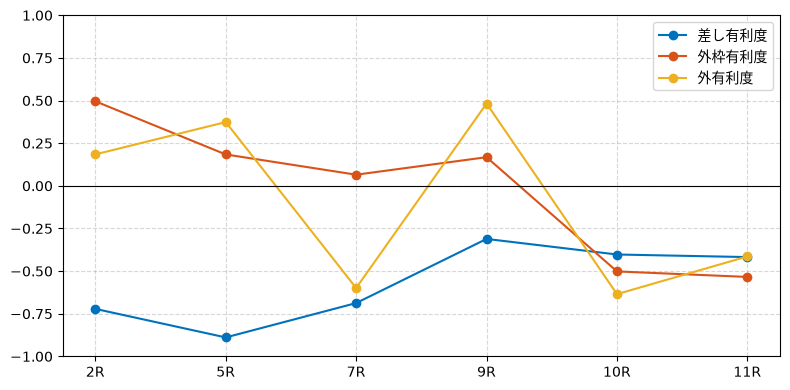
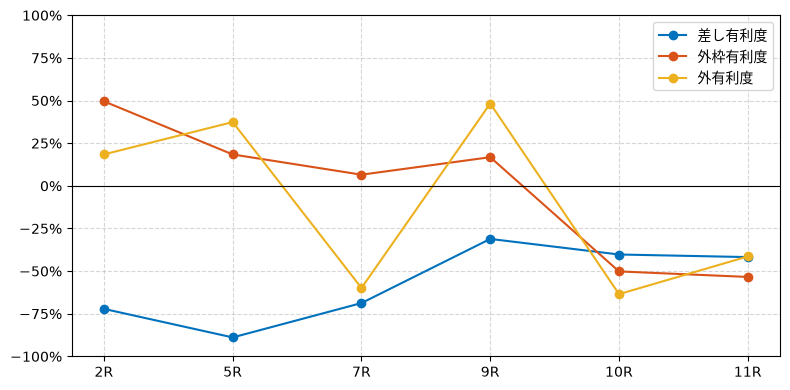
有利度を100倍して見やすく

diff --git a/public/2026/2026092706040911_スプリンターズS/前日の傾向.md b/public/2026/2026092706040911_スプリンターズS/前日の傾向.md
@@ -2,7 +2,7 @@
 
 ## 前日の出目
 
-各要素において、前日のレースで3着以内に入った頭数を集計。
+各要素において、前日のレースのうちスプリンターズSと同じ競馬場、芝ダのレースで3着以内に入った頭数を集計。
 
 **人気**
 
@@ -22,7 +22,7 @@
 
 ## 展開有利度の傾向
 
-差し有利度・外枠有利度・外有利度は、それぞれ4角通過位置・馬番・コーナーでの内外の位置と走破タイムの相関係数。正なら差し・外枠・外を回した馬が有利。
+差し有利度・外枠有利度・外有利度は、それぞれ4角通過位置・馬番・コーナーでの内外の位置と走破タイムの相関係数を100倍したもの。正なら差し・外枠・外を回した馬が有利。
 
 ![展開](img/prev_day/dynamics.png)
 
@@ -38,7 +38,7 @@
 
 | 差し有利度 | 外枠有利度 | 外有利度 |
 | --- | --- | --- |
-| -0.72 | +0.50 | +0.18 |
+| -72% | +50% | +18% |
 
 ![中山2R 標準化散布図](img/prev_day/2026092606040802.png)
 
@@ -52,7 +52,7 @@
 
 | 差し有利度 | 外枠有利度 | 外有利度 |
 | --- | --- | --- |
-| -0.89 | +0.18 | +0.37 |
+| -89% | +18% | +37% |
 
 ![中山5R 標準化散布図](img/prev_day/2026092606040805.png)
 
@@ -66,7 +66,7 @@
 
 | 差し有利度 | 外枠有利度 | 外有利度 |
 | --- | --- | --- |
-| -0.69 | +0.07 | -0.60 |
+| -69% | +7% | -60% |
 
 ![中山7R 標準化散布図](img/prev_day/2026092606040807.png)
 
@@ -80,7 +80,7 @@
 
 | 差し有利度 | 外枠有利度 | 外有利度 |
 | --- | --- | --- |
-| -0.31 | +0.17 | +0.48 |
+| -31% | +17% | +48% |
 
 ![中山9R 標準化散布図](img/prev_day/2026092606040809.png)
 
@@ -94,7 +94,7 @@
 
 | 差し有利度 | 外枠有利度 | 外有利度 |
 | --- | --- | --- |
-| -0.40 | -0.50 | -0.63 |
+| -40% | -50% | -63% |
 
 ![中山10R 標準化散布図](img/prev_day/2026092606040810.png)
 
@@ -108,6 +108,6 @@
 
 | 差し有利度 | 外枠有利度 | 外有利度 |
 | --- | --- | --- |
-| -0.42 | -0.53 | -0.41 |
+| -42% | -53% | -41% |
 
 ![中山11R 標準化散布図](img/prev_day/2026092606040811.png)
